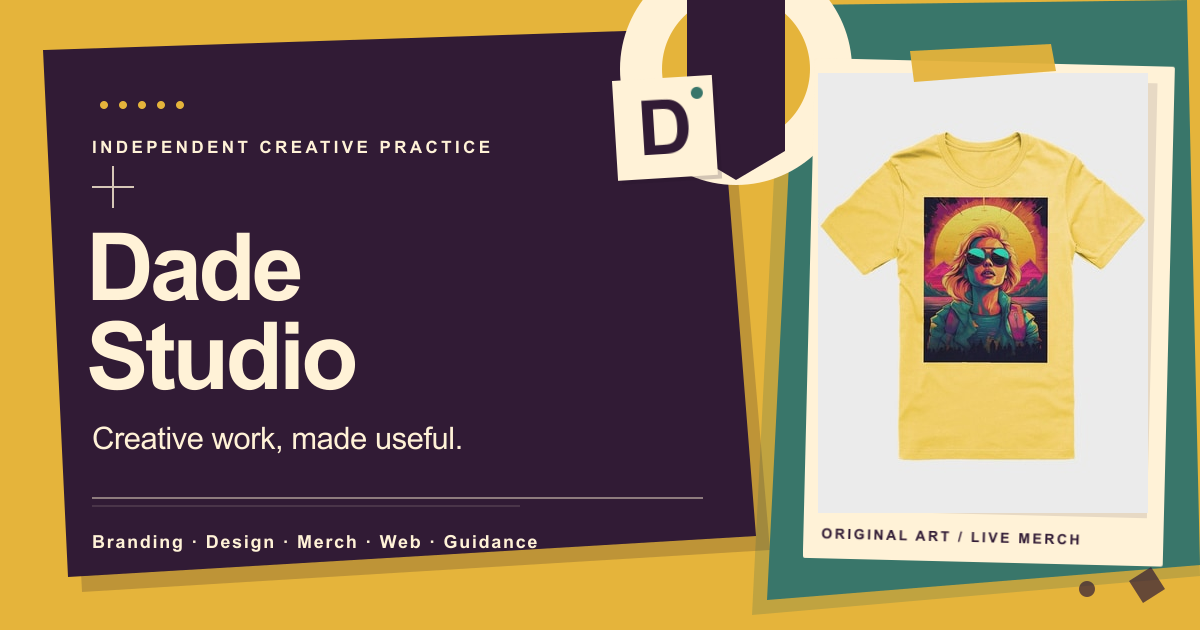
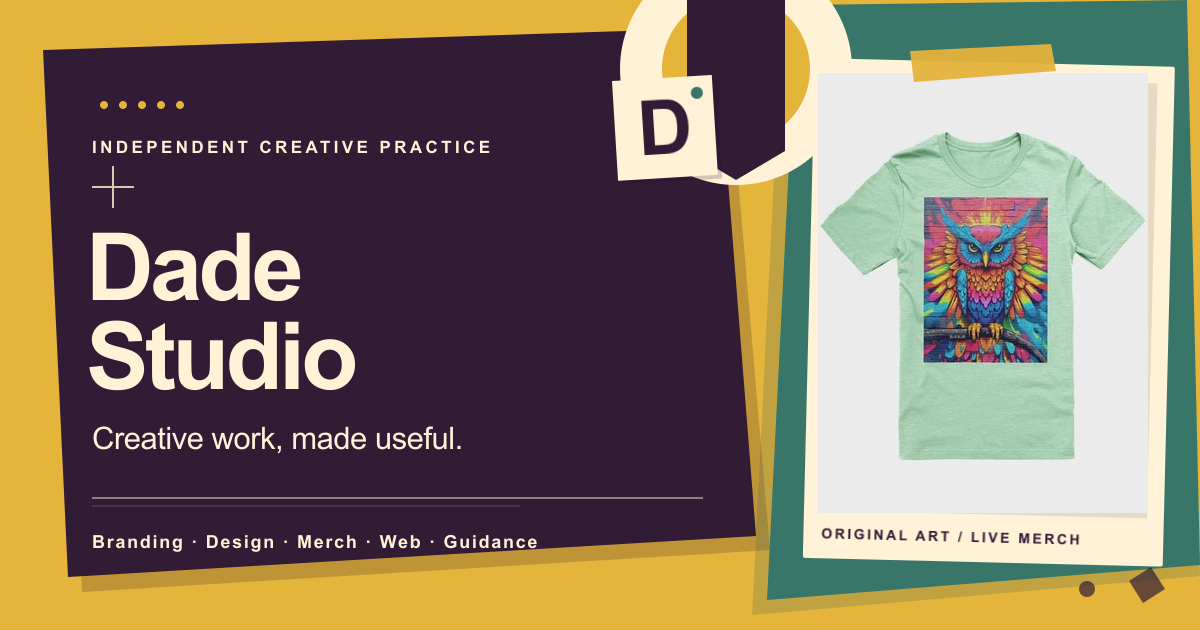
Feature Rave Owl and Morning Mountains

Changed region(s): [[0.6783, 0.2111, 0.9558, 0.754]]

diff --git a/src/app/printroom-site.tsx b/src/app/printroom-site.tsx
@@ -100,9 +100,9 @@ const shopPieces = [
     image: "/assets/merch/sunset-mountains.jpg",
   },
   {
-    name: "Girl Retro Wave",
-    href: "https://merch.dade.studio/products/girl-retro-wave-shirt",
-    image: "/assets/merch/girl-retro-wave-shirt.jpg",
+    name: "Morning Mountains",
+    href: "https://merch.dade.studio/products/morning-mountains",
+    image: "/assets/merch/morning-mountains.jpg",
   },
   {
     name: "Rave Owl",
@@ -185,14 +185,14 @@ export default function PrintroomSite() {
               <span className={styles.heroArtSun} aria-hidden="true" />
               <a
                 className={styles.heroProduct}
-                href="https://merch.dade.studio/products/girl-retro-wave-shirt"
+                href="https://merch.dade.studio/products/rave-owl"
                 target="_blank"
                 rel="noreferrer"
-                aria-label="Shop the Girl Retro Wave shirt"
+                aria-label="Shop the Rave Owl shirt"
               >
                 <Image
-                  src="/assets/merch/girl-retro-wave-shirt.jpg"
-                  alt="Yellow shirt featuring Dade's Girl Retro Wave artwork"
+                  src="/assets/merch/rave-owl.jpg"
+                  alt="Mint green shirt featuring Dade's Rave Owl artwork"
                   width={720}
                   height={960}
                   sizes="(max-width: 760px) 62vw, 30vw"
